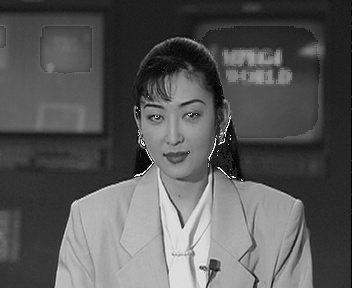
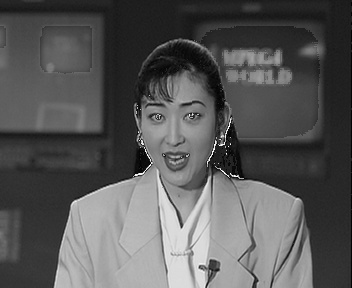
1027

diff --git a/src/HBMA_threeLevel_halfPel.py b/src/HBMA_threeLevel_halfPel.py
@@ -23,7 +23,7 @@ class hbma_three_level_halfPel:
       - PSNR 用灰階（anchor_gray vs predict_gray）
       - match() 仍回傳 (mvx, mvy)
     """
-    def __init__(self, video, N, R, flag, anchor_idx=7, target_idx=8):
+    def __init__(self, video, N, R, flag, anchor_idx=29, target_idx=30):
         self.video = video
         self.N = int(N)
         self.R = int(R)
@@ -194,9 +194,9 @@ class hbma_three_level_halfPel:
                         predict_gray[bi*N + rr, bj*N + cc] = self._bilinear_sample(f1_L0_pad, y0+rr, x0+cc)
 
         proc = time.time() - t0
-        P = psnr(anc_gray, predict_gray)
+        P = psnr(tar_gray, predict_gray)
         print(f"processing time = {proc:.4f} s")
-        print(f"PSNR (anchor_gray vs predict_gray) = {P:.4f} dB")
+        print(f"PSNR (target_y vs predict_y) = {P:.4f} dB")
 
         # ===== 視覺化（全部灰圖；送入 displayFrame 前疊成 3 通道）=====
         pred_u8 = np.clip(predict_gray, 0, 255).astype(np.uint8)
@@ -204,7 +204,7 @@ class hbma_three_level_halfPel:
         displayFrame(pred_bgr, self.flag, "hbma3_halfPel_predict_gray",
                      f"hbma3_halfPel_predict_gray_N{N}_Req{self.R}.jpg")
 
-        err = np.clip(np.abs(anc_gray - predict_gray), 0, 255).astype(np.uint8)
+        err = np.clip(np.abs(tar_gray - predict_gray), 0, 255).astype(np.uint8)
         err_bgr = cv2.merge([err, err, err])
         # displayFrame(err_bgr, self.flag, "hbma3_halfPel_error_gray", f"hbma3_halfPel_error_gray_N{N}_Req{self.R}.jpg")
 

diff --git a/src/EBMA.py b/src/EBMA.py
@@ -41,8 +41,8 @@ class ebma():
         total_frames = file_size // frame_bytes
         print("估算總幀數:", total_frames)
 
-        anchor = yuv2bgr(frames.getFrame(7))   # anchor frame
-        target = yuv2bgr(frames.getFrame(8))   # target frame
+        anchor = yuv2bgr(frames.getFrame(29))   # anchor frame
+        target = yuv2bgr(frames.getFrame(30))   # target frame
 
         d = np.maximum(self.N, self.R)
 
@@ -97,14 +97,14 @@ class ebma():
         displayFrame(cv2.merge([predict_u8]*3), self.flag, 'predict_gray', 'ebma_predict_gray' + search_params)
 
         # PSNR 與誤差圖：灰階對灰階
-        anchor_gray  = bgr_to_y(anchor)                   # H×W float32
-        error_gray = (np.abs(anchor_gray - predict_gray)).clip(0, 255).astype(np.uint8)
+        target_gray  = bgr_to_y(target)                   # H×W float32
+        error_gray = (np.abs(target_gray - predict_gray)).clip(0, 255).astype(np.uint8)
 
-        psnr_val = psnr(anchor_gray, predict_gray)
+        psnr_val = psnr(target_gray, predict_gray)
         # displayFrame(cv2.merge([error_gray]*3), self.flag, 'error_gray', 'ebma_error_gray' + search_params)
         print(f'PSNR (target_y vs predict_y) = {psnr_val:.4f} dB')
 
-        # # MV 視覺化維持不變
+        # MV 視覺化維持不變
         # draw_motion_field(mvx, mvy, width, height, 'ebma_mv' + search_params)
 
         return mvx, mvy

diff --git a/src/display.py b/src/display.py
@@ -51,19 +51,19 @@ def displayFrame(bgr_in, flag, frameName, save_dir=''):
 
 		#cv2.waitKey(0) # wait until any key is pressed
 	
-# # draw motion field
-# def draw_motion_field(u, v, width, height, save_dir = ''):
-# 	u,v = u/5, v/5
-# 	s = u.shape
-# 	# print(s)
-# 	x,y = np.meshgrid(np.arange(s[0]), np.arange(s[1]))
-# 	plt.figure(1)
-# 	q = plt.quiver(x, y, u, v, scale=1, scale_units='xy', pivot = 'tail', angles = 'xy')
-# 	if len(save_dir) == 0:
-# 		plt.show()
-# 	else:
-# 		plt.savefig(save_dir)
-# 		plt.close()
+# draw motion field
+def draw_motion_field(u, v, width, height, save_dir = ''):
+	u,v = u/5, v/5
+	s = u.shape
+	# print(s)
+	x,y = np.meshgrid(np.arange(s[0]), np.arange(s[1]))
+	plt.figure(1)
+	q = plt.quiver(x, y, u, v, scale=1, scale_units='xy', pivot = 'tail', angles = 'xy')
+	if len(save_dir) == 0:
+		plt.show()
+	else:
+		plt.savefig(save_dir)
+		plt.close()
 
 
 # calcuate the psnr

diff --git a/src/EBMA_halfPel.py b/src/EBMA_halfPel.py
@@ -81,8 +81,8 @@ class ebma_halfPel:
 
         # --- 讀取兩幀（原圖尺度）---
         frames = getYUVFrame(self.video, width, height)
-        anchor_bgr = yuv2bgr(frames.getFrame(7))   # frame 7 = anchor
-        target_bgr = yuv2bgr(frames.getFrame(8))   # frame 8 = target
+        anchor_bgr = yuv2bgr(frames.getFrame(29))   # frame 7 = anchor
+        target_bgr = yuv2bgr(frames.getFrame(30))   # frame 8 = target
 
         # --- 轉 Y 通道（MAD/PSNR 都用亮度）---
         f1_y = bgr_to_y(anchor_bgr)   # anchor Y
